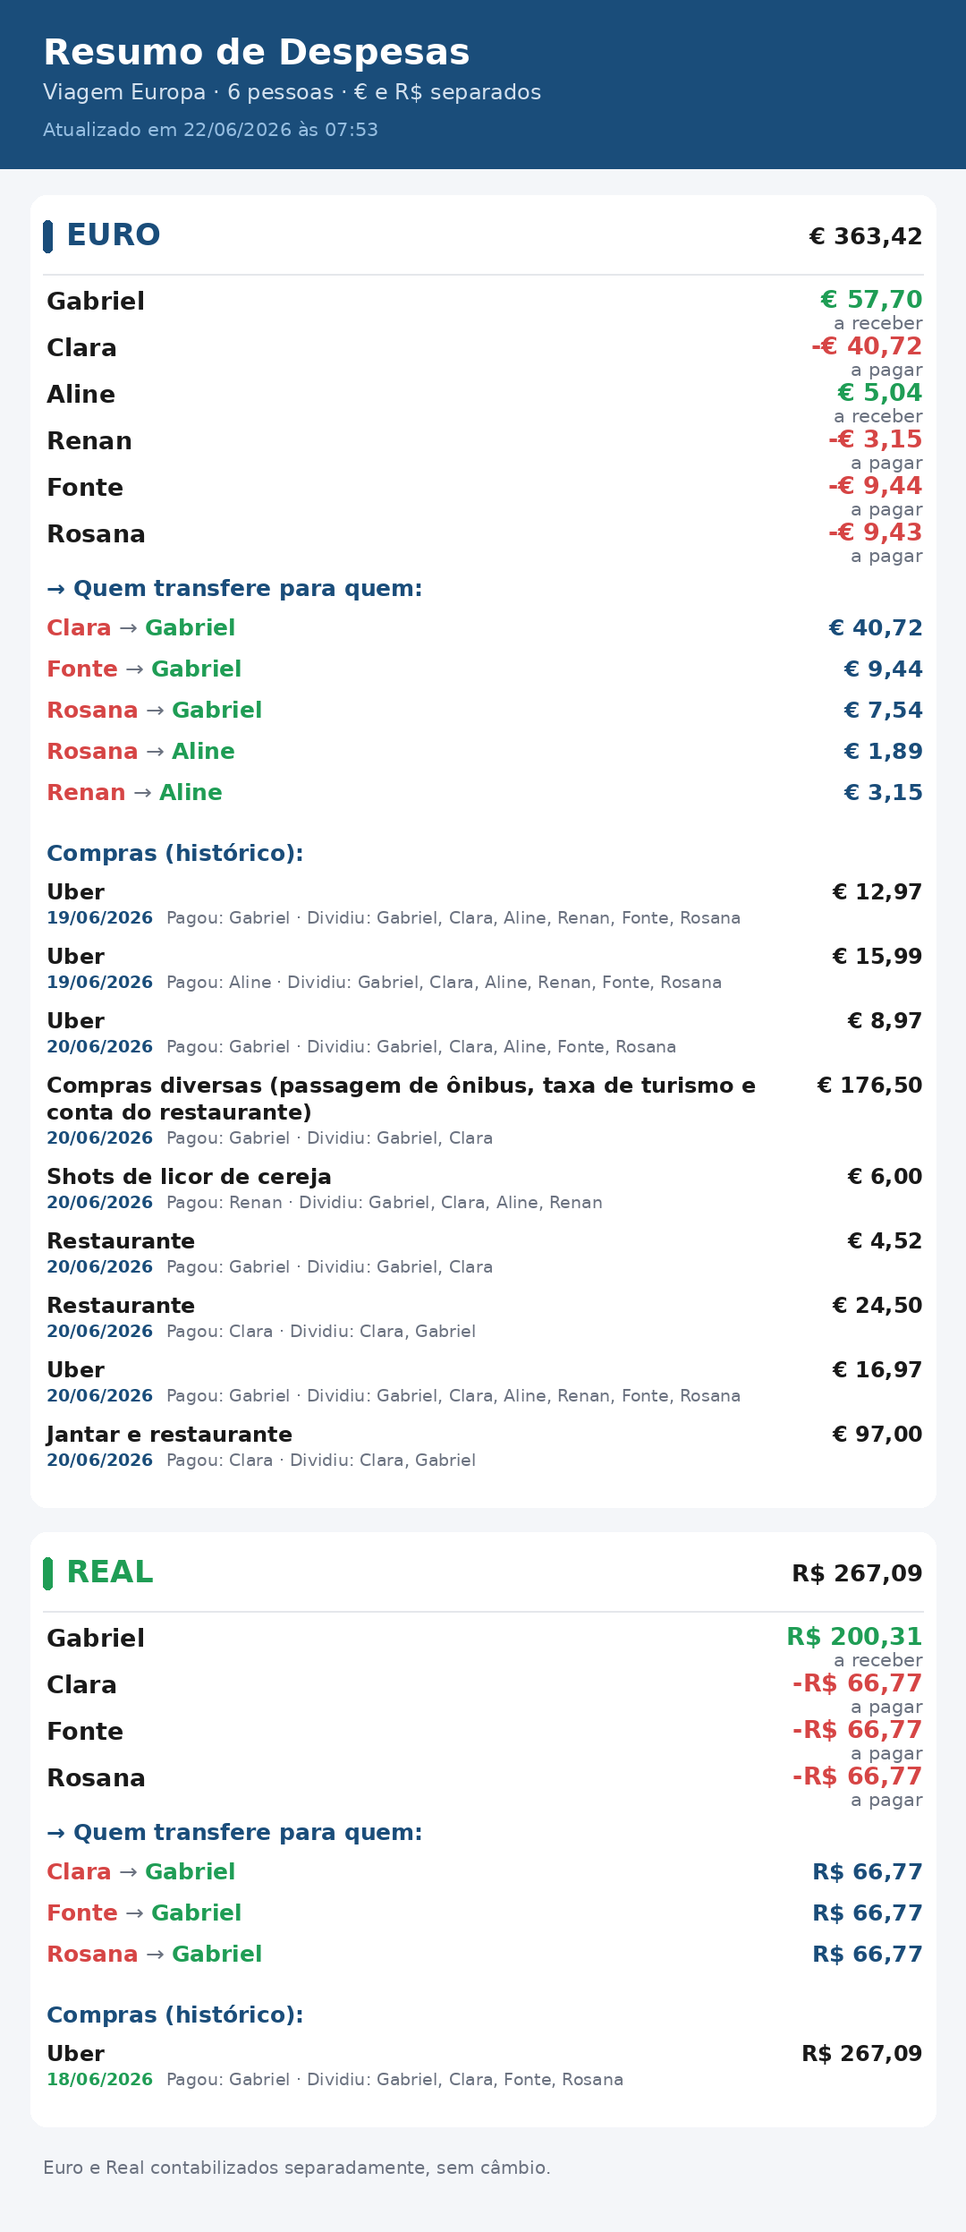
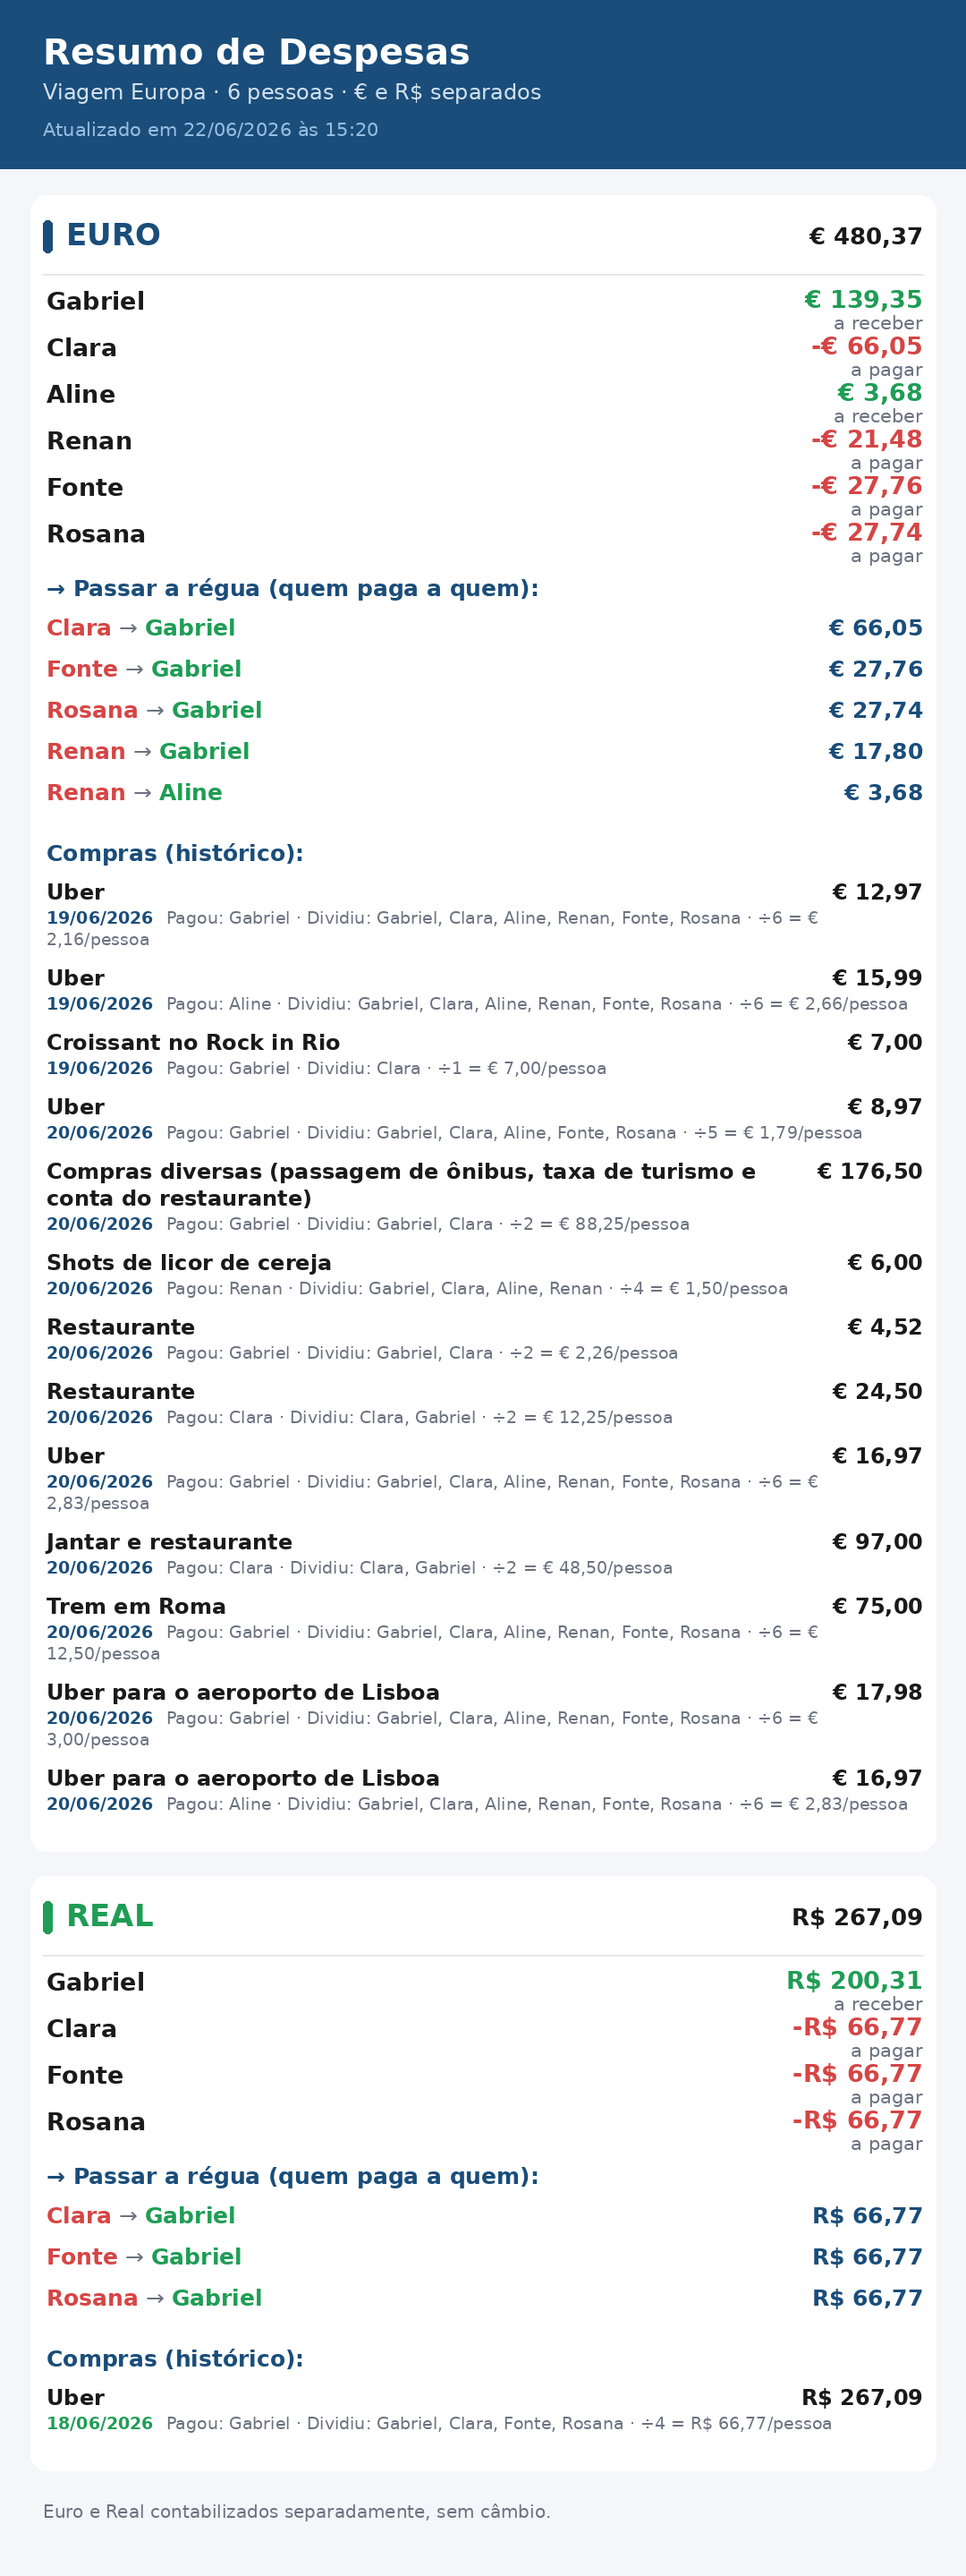
Resumo: detalha cota por pessoa em cada compra e destaca "passar a régua"
Cada compra passa a mostrar ÷N = valor/pessoa para facilitar auditoria,
e a seção de acerto vira "Passar a régua (quem paga a quem)".

Claude-Session: https://claude.ai/code/session_01WZZUhXQ16qMQfhyK5EDhBH

diff --git a/gerar_resumo.py b/gerar_resumo.py
@@ -151,7 +151,10 @@ def entry_layout(e, sym):
     d = e.get("data", "")
     datestr = (d[8:10] + "/" + d[5:7] + "/" + d[0:4]) if len(d) >= 10 else ""
     dw = (_md.textlength(datestr, font=f_date) + 14) if datestr else 0
-    meta = "Pagou: " + ", ".join(e["pagou"]) + "  ·  Dividiu: " + ", ".join(e["dividir"])
+    share = fmt(round(e["cents"] / len(e["dividir"])), sym)
+    meta = ("Pagou: " + ", ".join(e["pagou"]) +
+            "  ·  Dividiu: " + ", ".join(e["dividir"]) +
+            "  ·  ÷" + str(len(e["dividir"])) + " = " + share + "/pessoa")
     mlines = wrap(meta, f_small, CONTENT_W - dw, CONTENT_W)
     h = len(dlines) * 30 + len(mlines) * 24 + 18
     return dlines, mlines, valtxt, vw, datestr, dw, h
@@ -229,7 +232,7 @@ def draw_image(exps):
 
         cy += 10
         # acerto
-        d.text((PAD + 4, cy), "→ Quem transfere para quem:", font=f_txb, fill=C_HEAD)
+        d.text((PAD + 4, cy), "→ Passar a régua (quem paga a quem):", font=f_txb, fill=C_HEAD)
         cy += 44
         if not tx:
             d.text((PAD + 4, cy), "Tudo quitado.", font=f_tx, fill=C_MUTED); cy += 46
